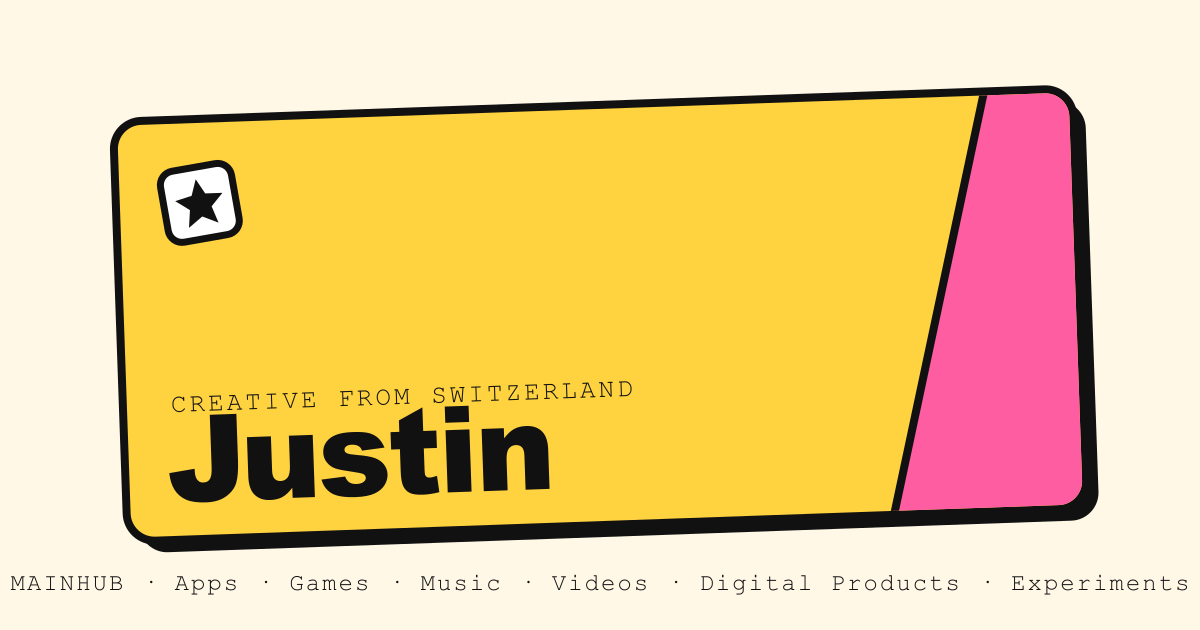
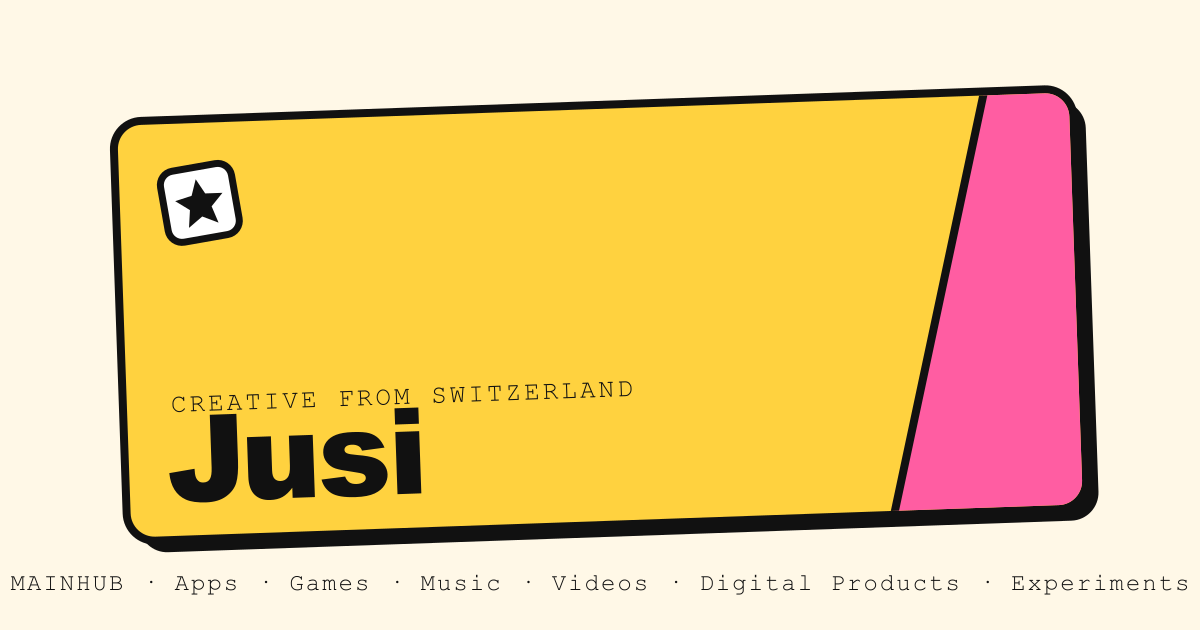
content: rename Justin to Jusi everywhere on the site, vCard file and OG image

Changed region(s): [[0.3083, 0.6333, 0.4625, 0.7841]]

diff --git a/src/data/site.ts b/src/data/site.ts
@@ -7,18 +7,18 @@ import type { LinkTypeSlug } from './linkTypes';
 export interface SocialLink {
   type: LinkTypeSlug;
   url: string;
-  /** Display handle, e.g. "@justin". */
+  /** Display handle, e.g. "@jusidroppop69". */
   handle: string;
 }
 
 export const SITE = {
-  name: 'Justin',
+  name: 'Jusi',
   // TODO: full name for the vCard, if different from `name`
-  fullName: 'Justin',
+  fullName: 'Jusi',
   title: 'MAINHUB',
   tagline: 'Creative from Switzerland',
   description:
-    'Apps, games, music, videos and digital products by Justin, a creative from Switzerland.',
+    'Apps, games, music, videos and digital products by Jusi, a creative from Switzerland.',
   bio: 'I make apps, games, music, videos and digital products. This is where all of it lands.',
   location: 'Switzerland',
   email: 'contactjxsi@gmail.com',

diff --git a/src/pages/contact.vcf.ts b/src/pages/contact.vcf.ts
@@ -29,7 +29,7 @@ export const GET: APIRoute = () => {
   return new Response(lines.join('\r\n') + '\r\n', {
     headers: {
       'Content-Type': 'text/vcard; charset=utf-8',
-      'Content-Disposition': 'attachment; filename="justin.vcf"',
+      'Content-Disposition': 'attachment; filename="jusi.vcf"',
     },
   });
 };

diff --git a/CLAUDE.md b/CLAUDE.md
@@ -1,8 +1,11 @@
-# MAINHUB – Justins persönliche Website
+# MAINHUB – Jusis persönliche Website
 
-Persönlicher Hub für Justin, Kreativer aus der Schweiz (Apps, Games, Musik, Videos,
+Persönlicher Hub für Jusi (Justin), Kreativer aus der Schweiz (Apps, Games, Musik, Videos,
 digitale Produkte, Experimente). Die Seite ist Portfolio, Verkaufs-Einstieg
 (App Store, Gumroad, Streaming) und Content-Hub (YouTube, Twitch, Devlog) in einem.
+
+Auf der Website heisst er überall **Jusi**, nie Justin (Name, vCard, OG-Bild,
+Dateinamen). Der Name kommt aus `src/data/site.ts` und `scripts/og-default.mjs`.
 
 Sprache der Website: **Englisch**. Sprache der Zusammenarbeit im Chat: Deutsch.
 Kommentare und Code auf Englisch.

diff --git a/DEPLOY.md b/DEPLOY.md
@@ -57,7 +57,7 @@ YouTube-Channel-ID. Danach `npm run build` lokal prüfen und pushen.
 - [ ] Worker-URL (`mainhub.<subdomain>.workers.dev`) lädt, Karte dreht sich,
       Nav funktioniert, `/card.html` leitet auf `/card` um.
 - [ ] `/robots.txt` zeigt die Sitemap-URL, `/sitemap-index.xml` listet alle Seiten.
-- [ ] `/contact.vcf` auf dem iPhone öffnen: Kontakte-App mit "Justin".
+- [ ] `/contact.vcf` auf dem iPhone öffnen: Kontakte-App mit "Jusi".
 - [ ] `/card?src=print` zeigt die Karte mit Gruss.
 - [ ] Unbekannte URL liefert die 404-Seite mit Status 404.
 - [ ] Nach Domain-Setup: `https://jxsi.ch/projects` → `https://www.jxsi.ch/projects`.
